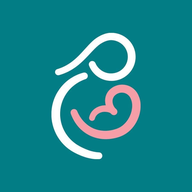
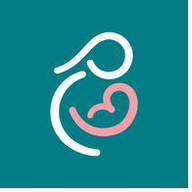
Adiciona PWA
service worker, ícone novo e manifest corrigido

Changed region(s): [[0.25, 0.1562, 0.75, 0.8438], [0.0, 0.0, 1.0, 1.0]]

diff --git a/sw.js b/sw.js
@@ -1,0 +1,28 @@
+const CACHE = 'previmater-crm-v1';
+const ASSETS = ['./', './index.html', './manifest.json', './icon192.png', './icon512.png'];
+
+self.addEventListener('install', e => {
+  e.waitUntil(caches.open(CACHE).then(c => c.addAll(ASSETS)));
+  self.skipWaiting();
+});
+
+self.addEventListener('activate', e => {
+  e.waitUntil(caches.keys().then(keys =>
+    Promise.all(keys.filter(k => k !== CACHE).map(k => caches.delete(k)))
+  ));
+  self.clients.claim();
+});
+
+self.addEventListener('fetch', e => {
+  // nunca cacheia chamadas ao Supabase (dados sempre precisam vir ao vivo)
+  if (e.request.url.includes('supabase.co')) return;
+  e.respondWith(
+    caches.match(e.request).then(cached => cached || fetch(e.request).then(res => {
+      if (res.ok) {
+        const clone = res.clone();
+        caches.open(CACHE).then(c => c.put(e.request, clone));
+      }
+      return res;
+    })).catch(() => caches.match(e.request))
+  );
+});

diff --git a/index.html b/index.html
@@ -4,6 +4,7 @@
 <meta charset="UTF-8"/>
 <meta name="viewport" content="width=device-width,initial-scale=1.0,viewport-fit=cover"/>
 <meta name="apple-mobile-web-app-capable" content="yes"/>
+<meta name="apple-mobile-web-app-status-bar-style" content="black-translucent"/>
 <meta name="theme-color" content="#0A9396"/>
 <title>PreviMater — CRM</title>
 <link rel="manifest" href="manifest.json"/>
@@ -2987,6 +2988,11 @@ async function ibConfirmarCriarCliente(chave){
   toast('Cliente criada a partir da conversa','ok');
   fecharModal();
   abrirCardCliente(novo.id);
+}
+</script>
+<script>
+if('serviceWorker' in navigator){
+  window.addEventListener('load',()=>navigator.serviceWorker.register('sw.js').catch(()=>{}));
 }
 </script>
 </body>
